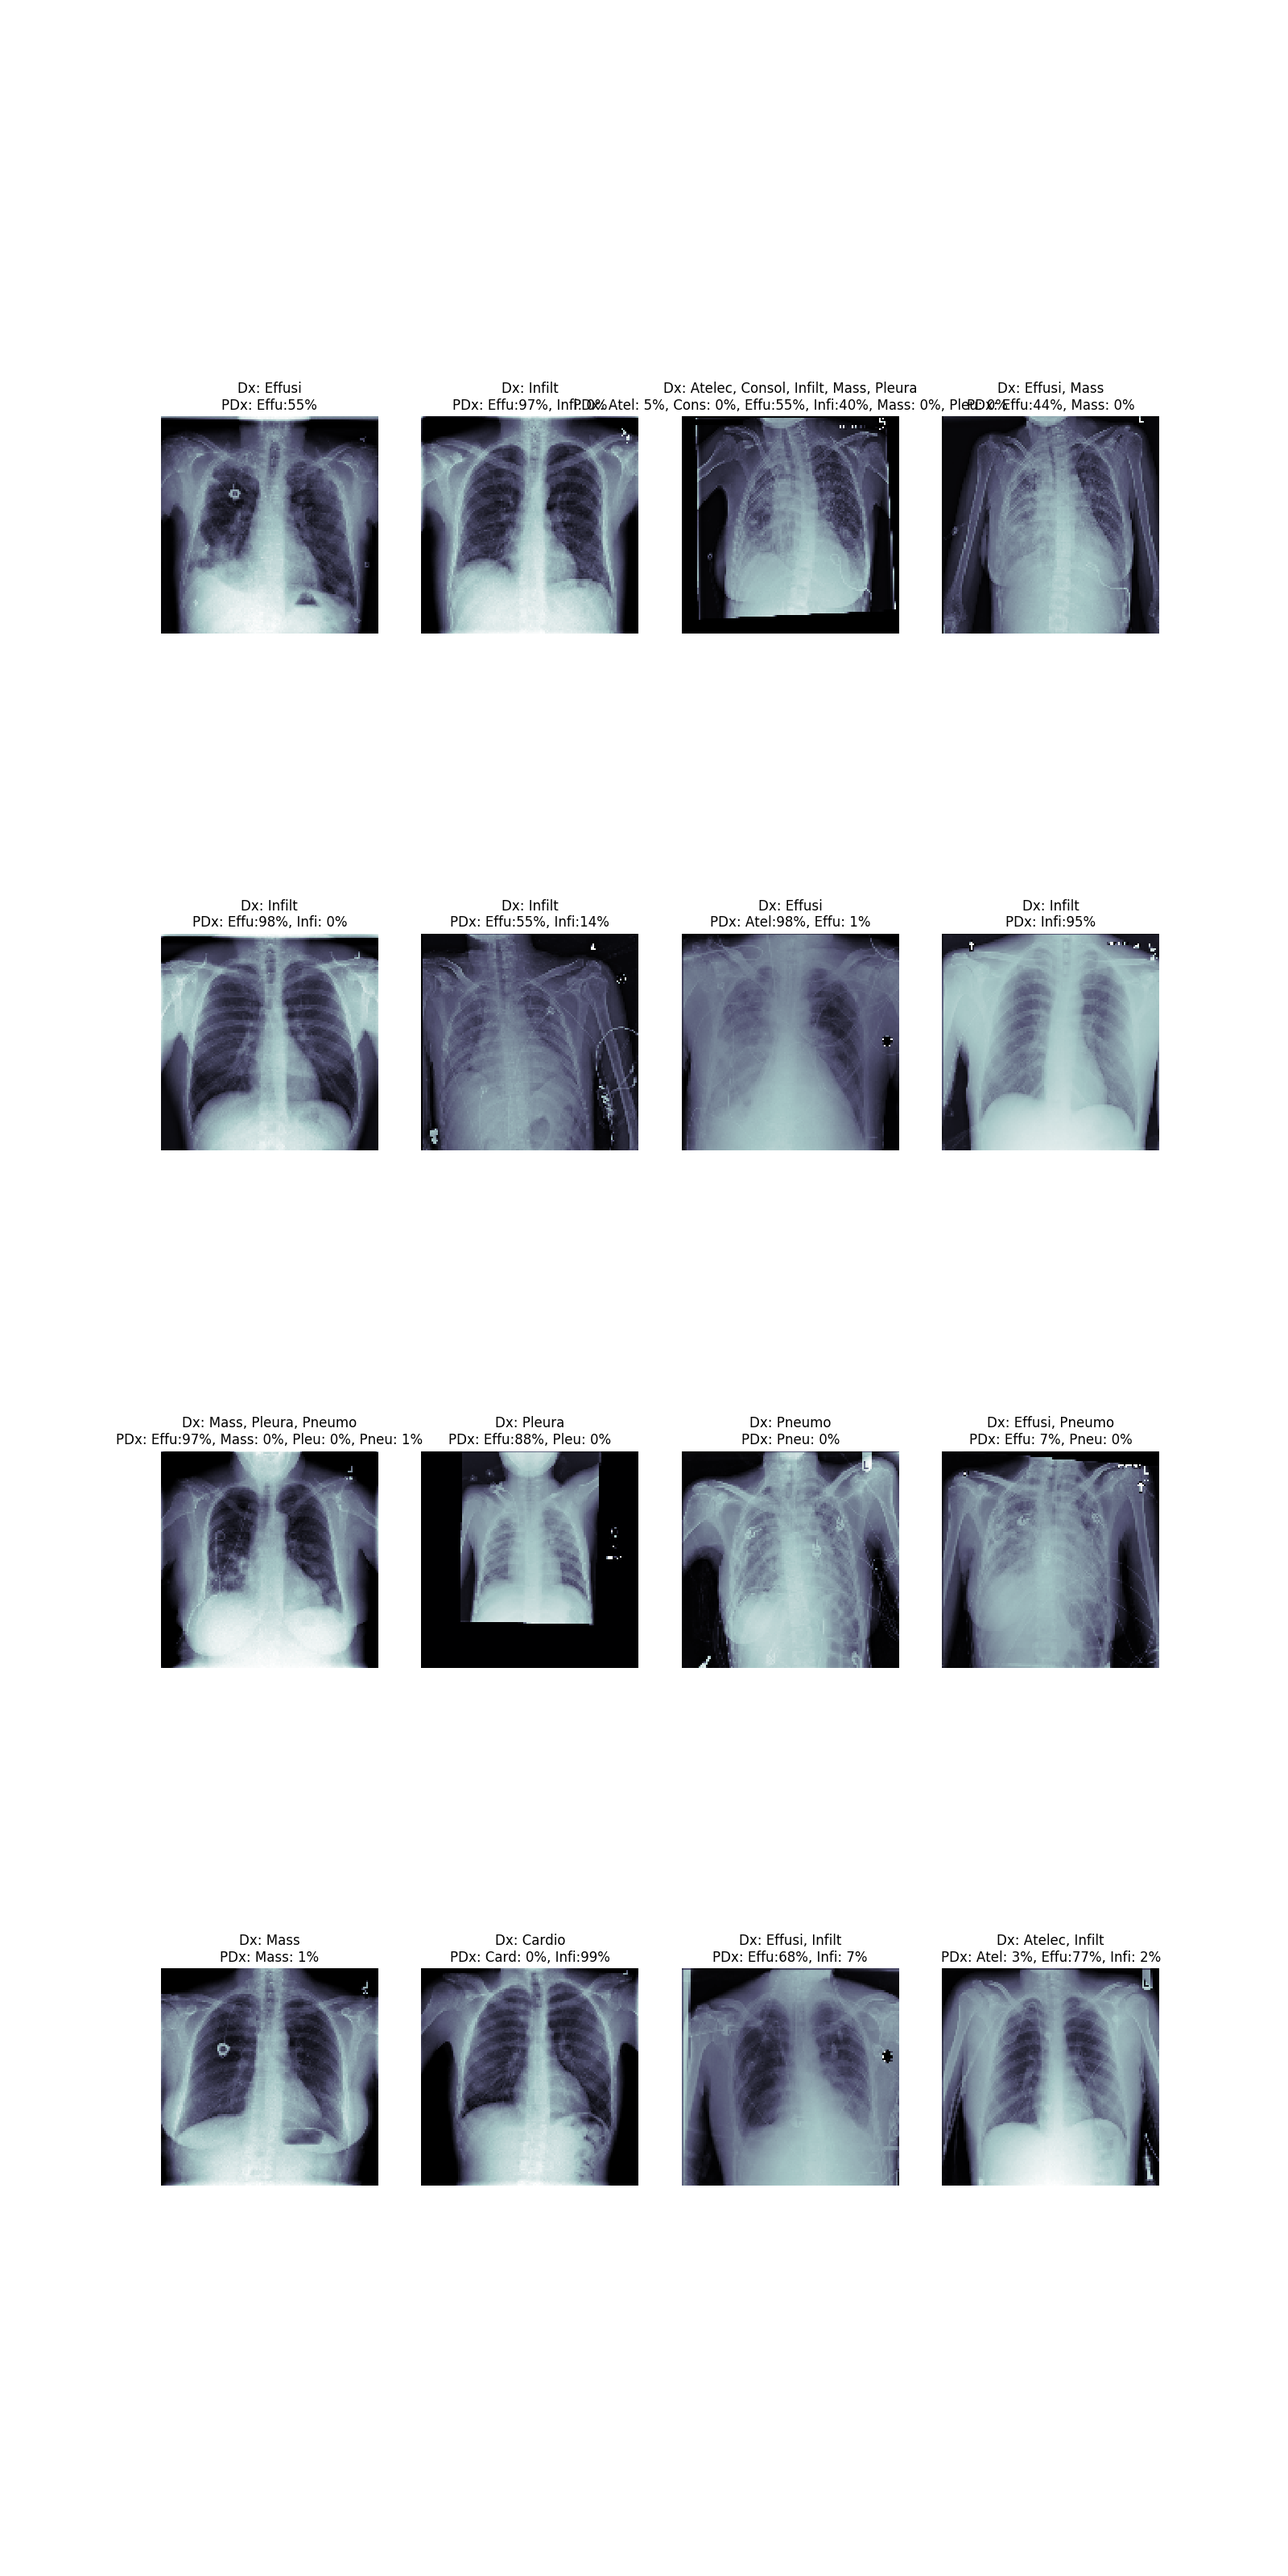
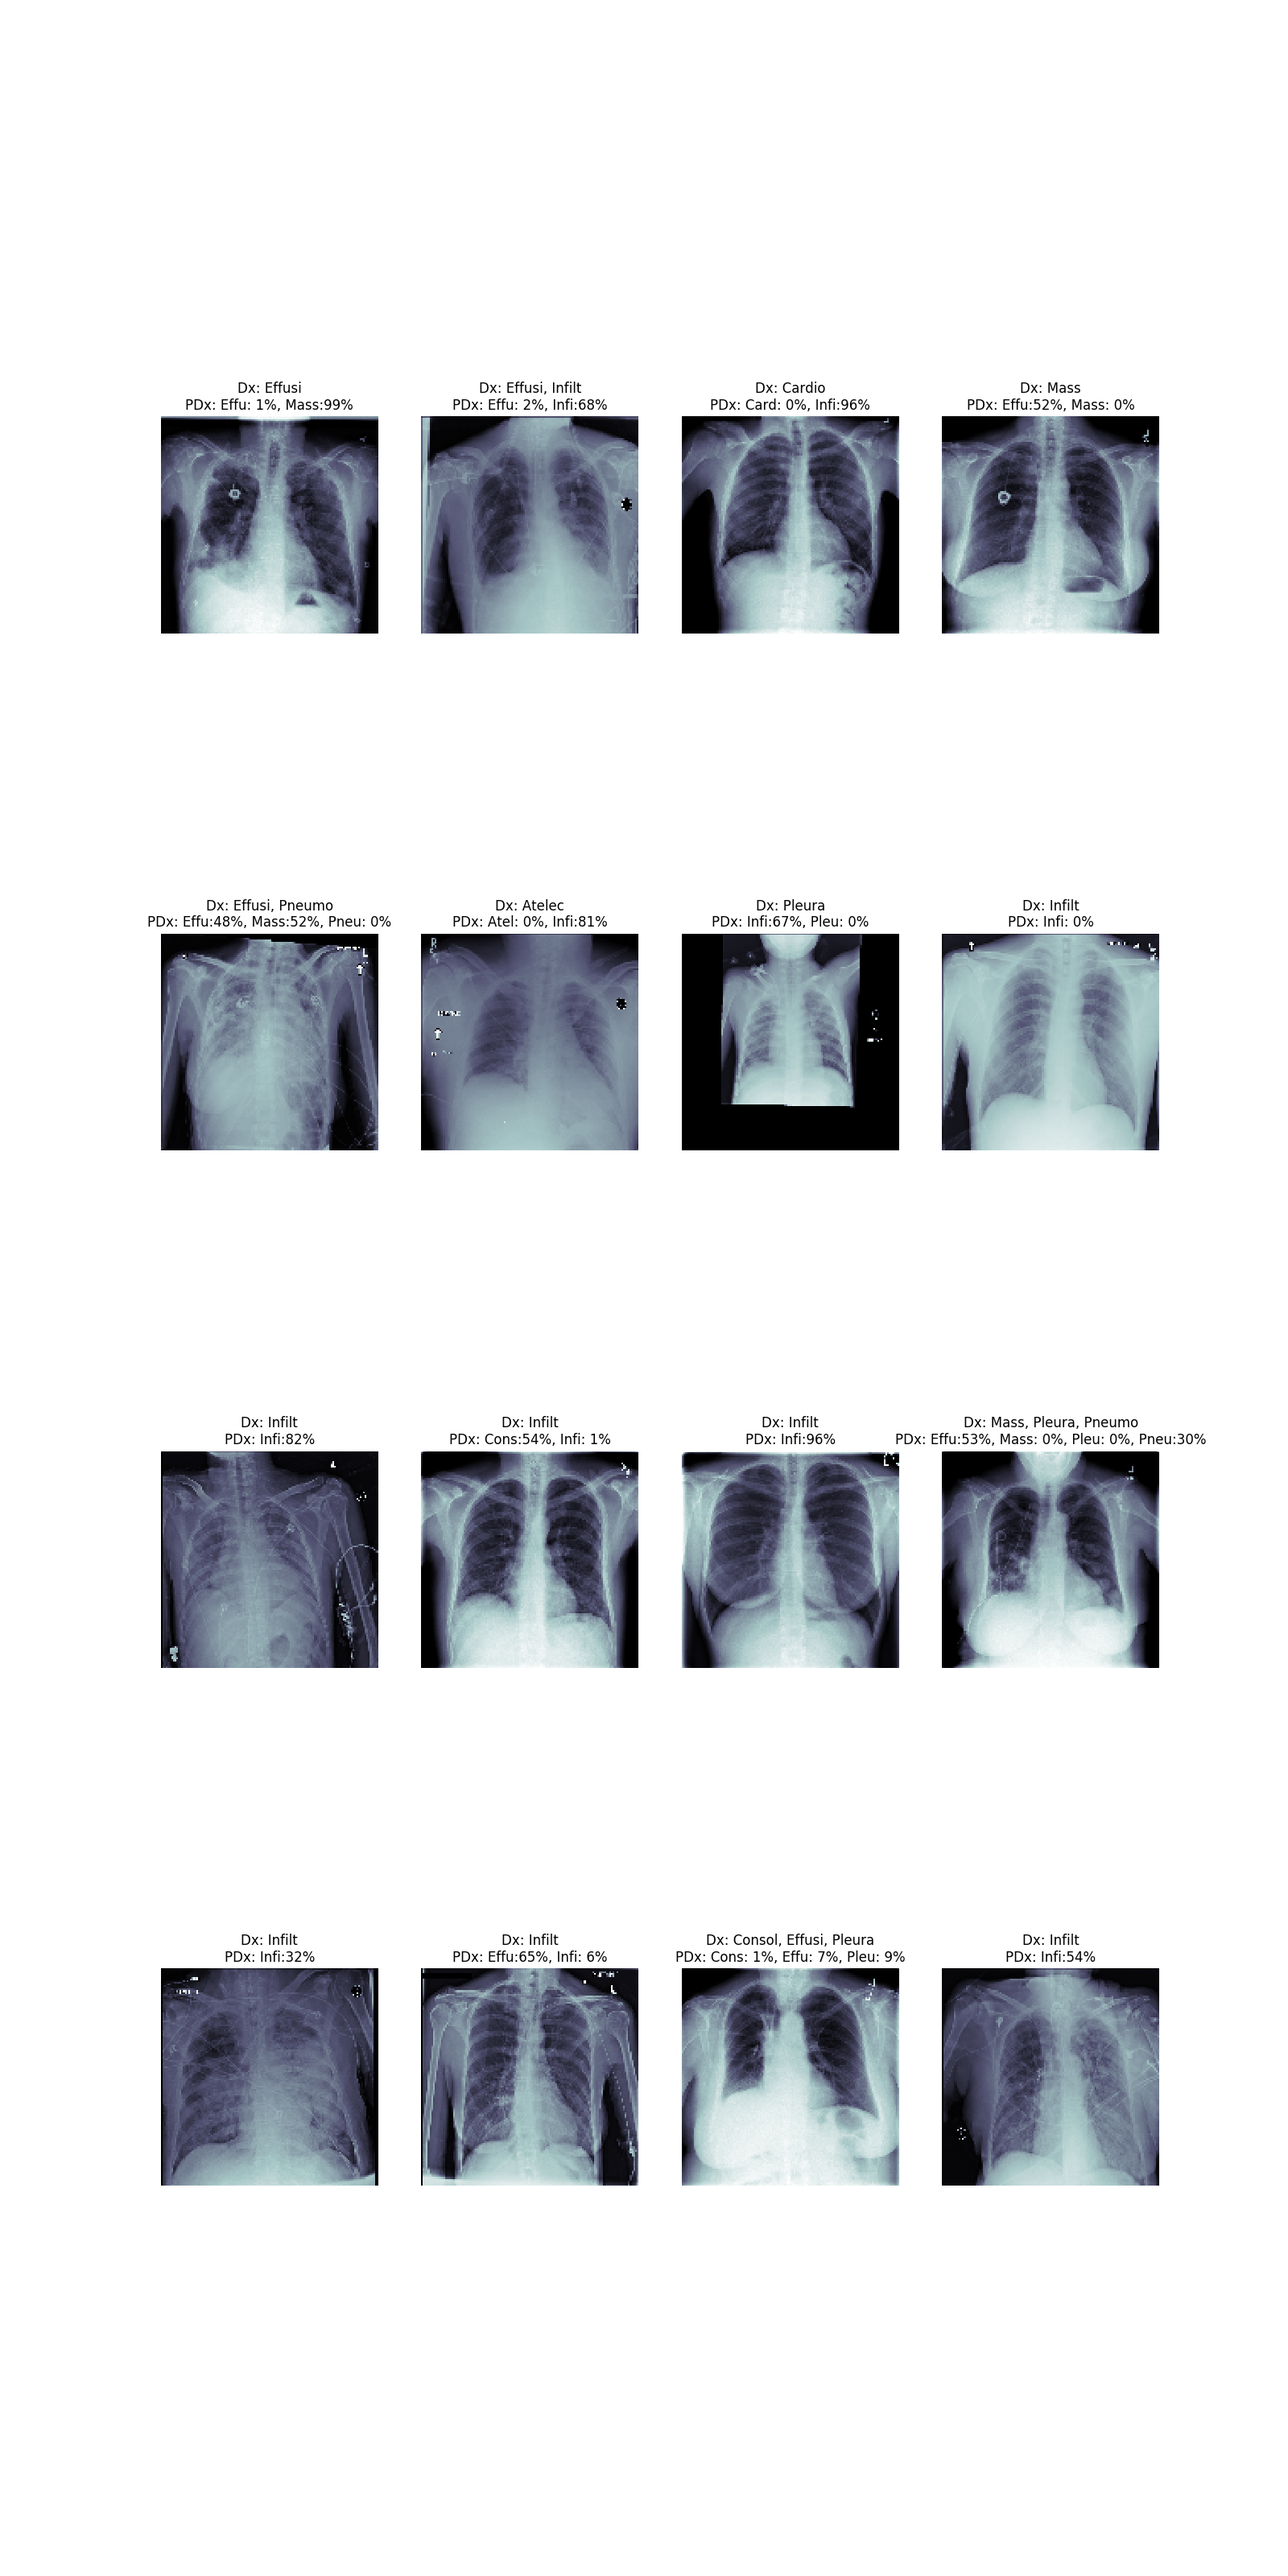
binary metrics

diff --git a/one_gpu_nih.py b/one_gpu_nih.py
@@ -35,7 +35,7 @@ dataframe = dataframe.drop(['Patient Age', 'Patient Gender', 'Follow-up #', 'Pat
 #         'Atelectasis', 'Effusion', 'Infiltration']
 
 # work on 50 percent of the dataset
-df_sample = dataframe.sample(frac = 0.50, random_state = 5)
+df_sample = dataframe.sample(frac = 0.70, random_state = 5)
 deasises = list(df_sample["Finding Labels"].unique())
 
 #train data set
@@ -116,12 +116,12 @@ model.add(Dense(512))
 model.add(Dropout(0.3))
 model.add(Dense(256))
 model.add(Dropout(0.3))
-model.add(Dense(len(all_labels), activation='softmax'))
-model.compile(loss='categorical_crossentropy', optimizer='adam', metrics=['categorical_accuracy'])
+model.add(Dense(len(all_labels), activation='sigmoid'))
+model.compile(loss='binary_crossentropy', optimizer='adam', metrics=['binary_accuracy'])
 model.summary()
 
 
-history = model.fit(X_train, y_train, epochs = 300, batch_size=64, verbose=1, validation_split=0.2 , shuffle=True)
+history = model.fit(X_train, y_train, epochs = 50, batch_size=64, verbose=1, validation_split=0.2 , shuffle=True)
 
 model.save('../nih_sample/nih_model_50_01.h5')
 def history_plot(history):
